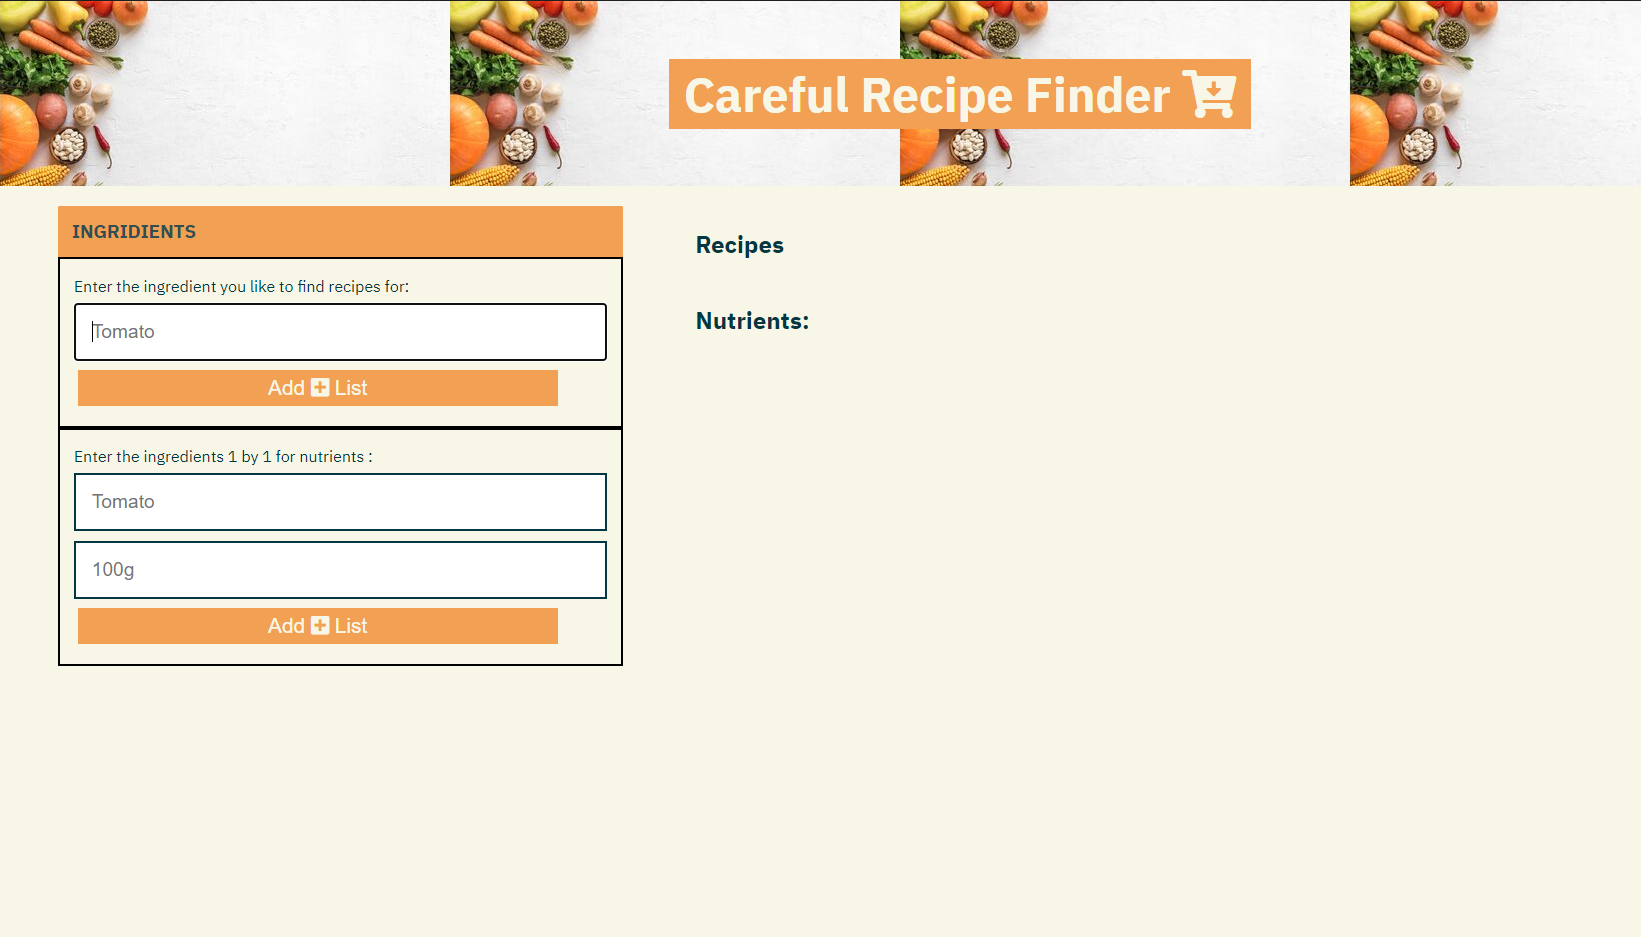
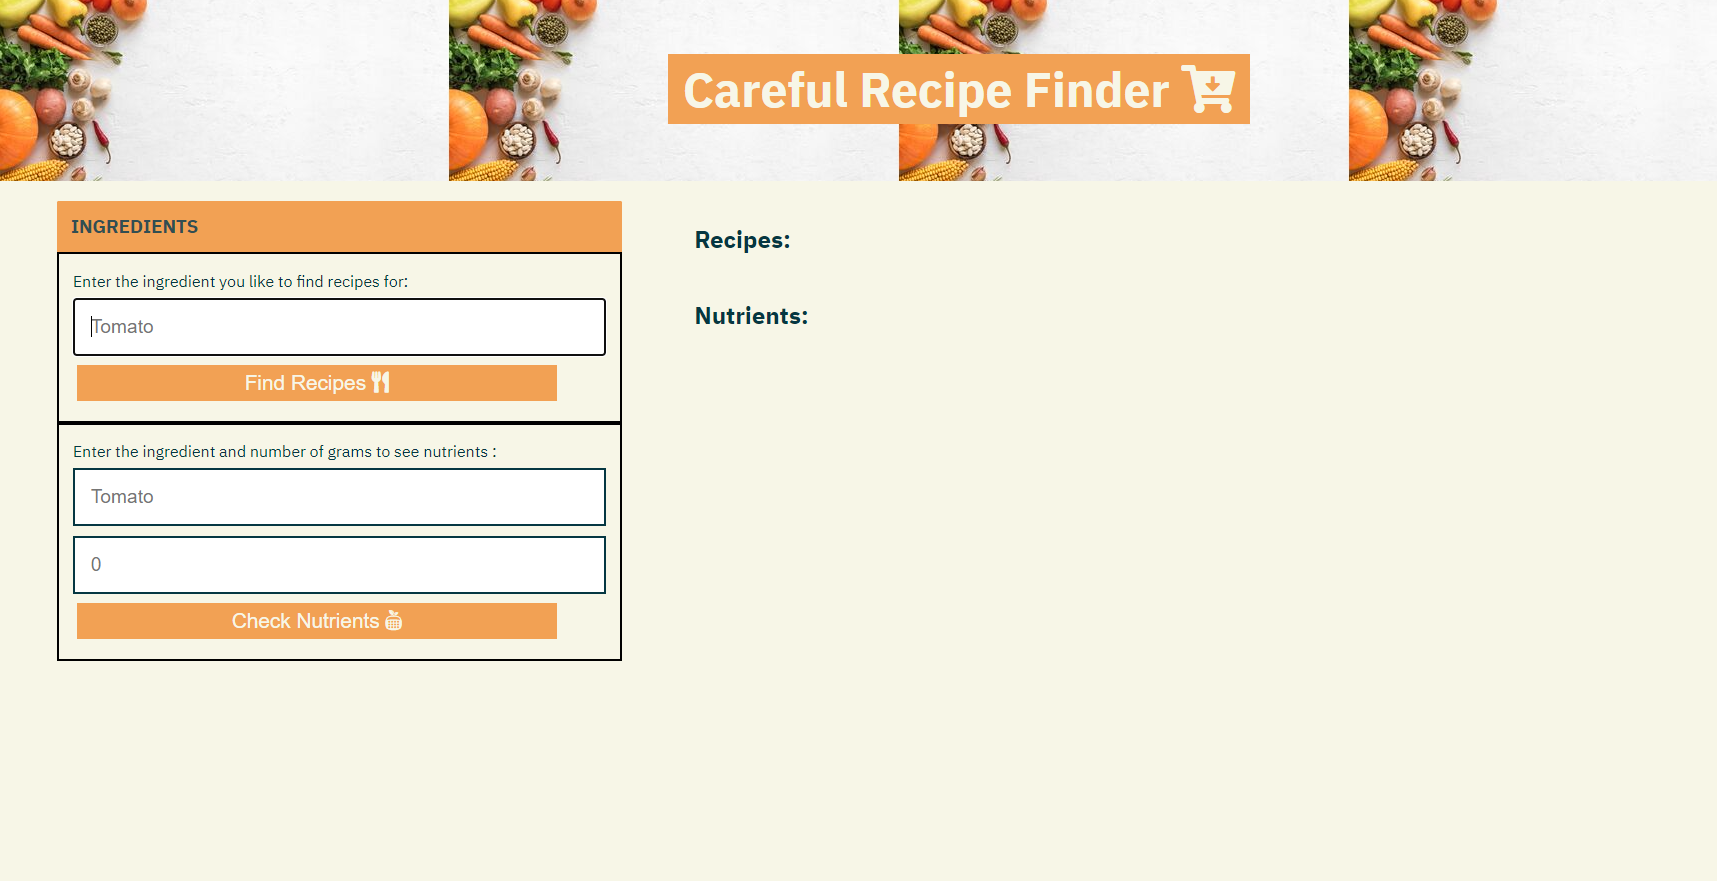
Fixed typo

Changed region(s): [[0.0, 0.0, 0.9324, 0.7355], [0.404, 0.3371, 0.4973, 0.3678]]

diff --git a/index.html b/index.html
@@ -13,6 +13,7 @@
         <link rel="stylesheet" href="./assets/styles.css">
     </head>
     <body>
+        <!-- TITLE WITH BACKGROUND IMAGE -->
         <header class="hero">
             <h1 class="app-title">Careful Recipe Finder <i class="fas fa-cart-arrow-down"></i></h1>
         
@@ -23,7 +24,7 @@
             <div class="col-12 col-md-4">
         
               <div class="card">
-                <h3 class="card-header text-uppercase">Ingridients </h3>
+                <h3 class="card-header text-uppercase">Ingredients </h3>
                 <form id="recipes-form" class="card-body">
                   <label>Enter the ingredient you like to find recipes for:</label>
                   <input name="ingredient" id="recipesName" type="text" autofocus="true" class="form-input" placeholder="Tomato"/>
